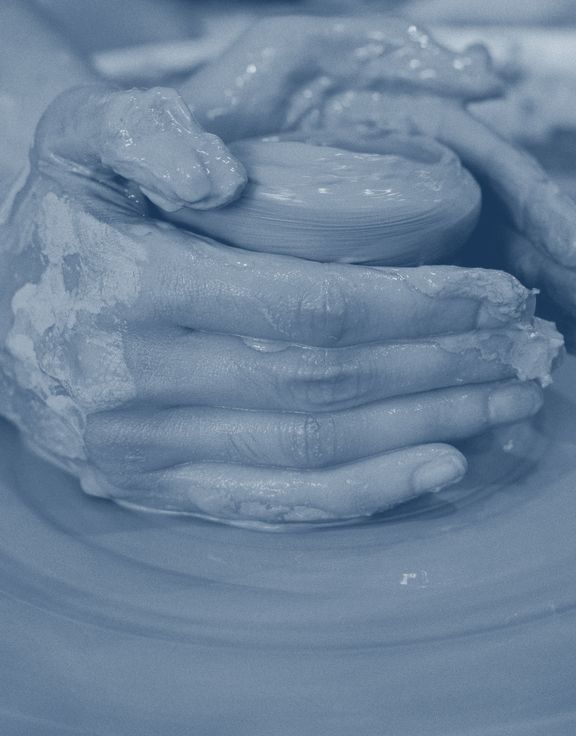
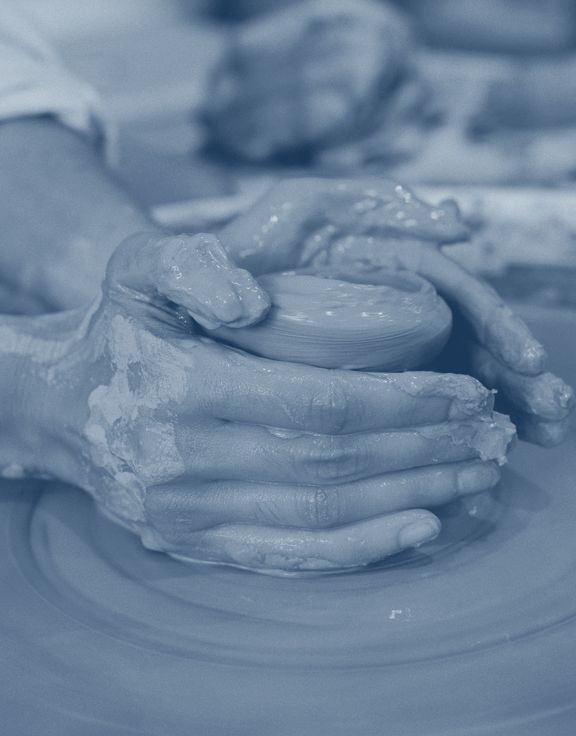
Foto de cerámica con encuadre más abierto
Claude-Session: https://claude.ai/code/session_019NfB4hVUKpwK8j8njTc7B6

diff --git a/index.html b/index.html
@@ -303,7 +303,7 @@
               try { localStorage.setItem("hero-negocio", b.id); } catch (e) {}
               var $ = function (s) { return document.querySelector("[data-hero-" + s + "]"); };
               var base = "assets/img/hero/" + b.photo;
-              var v = "?v=2"; /* súbelo al cambiar alguna foto para que el navegador la recargue */
+              var v = "?v=3"; /* súbelo al cambiar alguna foto para que el navegador la recargue */
               $("source").srcset = base + ".webp" + v;
               $("img").src = base + ".jpg" + v;
               $("img").alt = b.alt;
